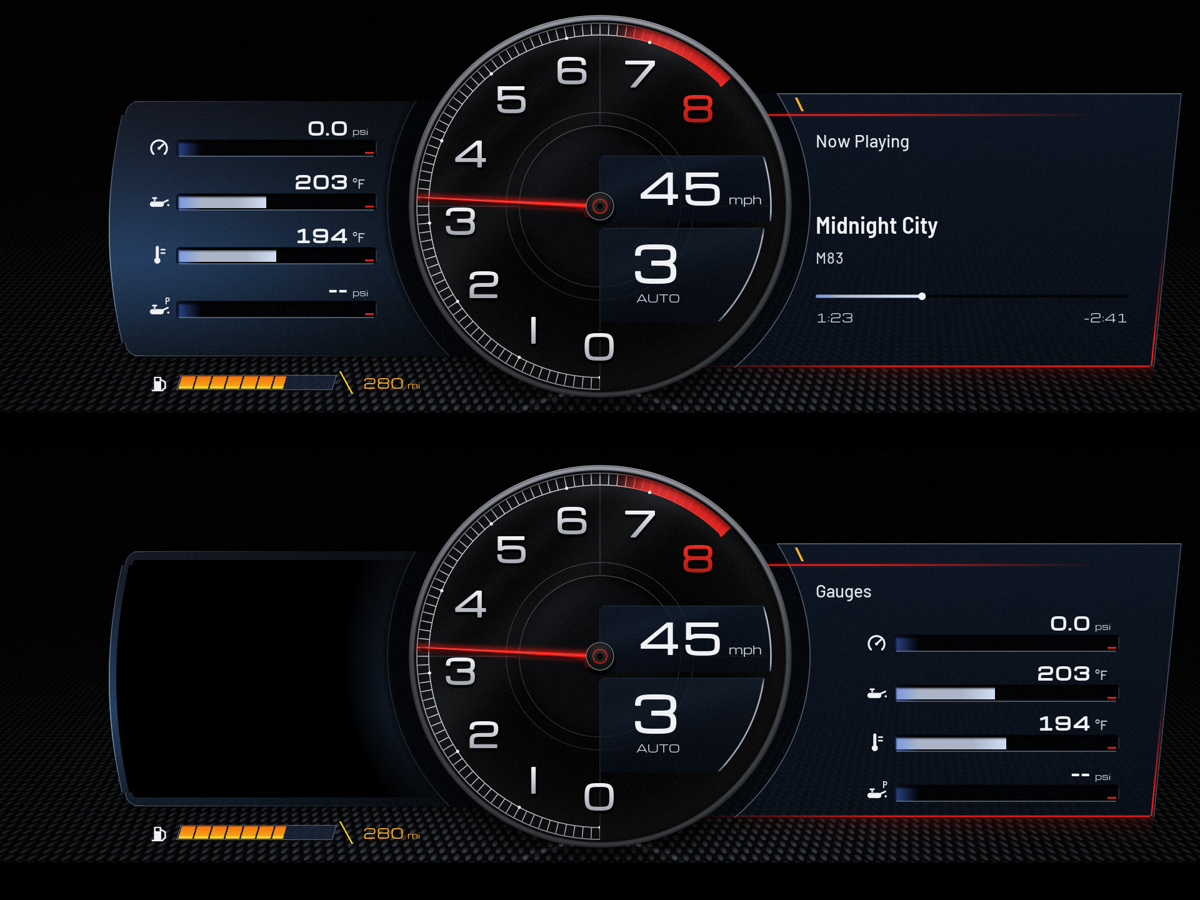
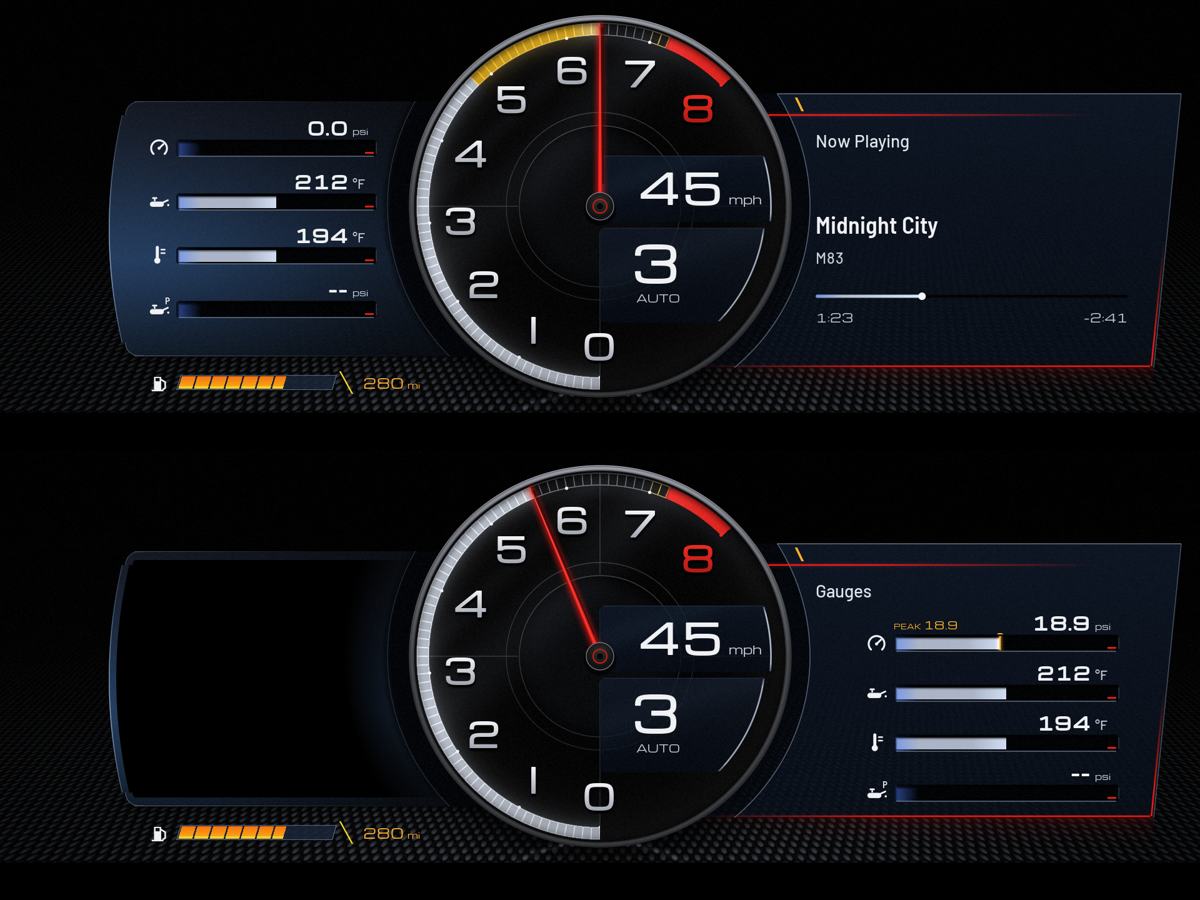
Vetro: drop the HV gauge from the shader to stay under the size known to hold on the car
Claude-Session: https://claude.ai/code/session_014K4Tyd9Jh77Ds9SVD6eFP6

diff --git a/shared/hud.js b/shared/hud.js
@@ -2855,7 +2855,6 @@ class HudApp {
             c.uniform(ref, 'u_tbox', (mapOn && w.mapTbox) || w.tbox || [68, 37, 69, 1]);
             c.uniform(ref, 'u_hole', this._hole(w));
             c.uniform(ref, 'u_fuel', [F[0] - w.x, F[1] - w.y, F[2], 0]);
-            c.uniform(ref, 'u_hv', w.hv && this.setting('vetroHv') === true ? [w.hv[0] - w.x, w.hv[1] - w.y, w.hv[2], 0] : [-1, 0, 1, 0]);
         } else if (w.type === 'gdash') {
             // Circuit (tools/gen_circuit.py): "tach" [cx, cy, r, start deg, sweep deg, thousands], "zones" [amber, red] rpm,
             // "left" / "right" [cx, cy, r] (the side dials), "gbox" [cx, cy, half w, half h] (the gear's box), "car"
@@ -3833,7 +3832,6 @@ class HudApp {
             const low = isNum(w.tyreLow) ? w.tyreLow : 33;
             const ts = ['FL', 'FR', 'RL', 'RR'].map((k) => { const v = this._tyre('p', k); return isNum(v) ? (Math.round(v * 14.5038) < low ? 2 : 1) : 0; });
             const fuel = this._raw('fuel'), fl = isNum(fuel) ? Math.round(Math.min(1, Math.max(0, fuel)) * 100) / 100 : 0;
-            const hv = this._raw('hvSoc'), hvF = isNum(hv) ? Math.round(Math.min(1, Math.max(0, hv / 100)) * 200) / 200 : 0;
             const pk = this._pullShown(), b0 = bars[0];
             const pkF = pk !== null && b0 && b0.signal === 'boost' ? q((pk - b0.min) / (b0.max - b0.min)) : -1;
             let sh = this._shiftNow(now);
@@ -3855,7 +3853,7 @@ class HudApp {
             }
             const playing = !!x.mediaOn && this._mediaOn(), mp = playing ? this._raw('mediaPct') : null;
             const mf = playing ? (isNum(mp) ? Math.round(Math.min(1, Math.max(0, mp / 100)) * 500) / 500 : 0) : -1;
-            const key = [rv].concat(bv, ts, [fl, hvF, pkF, mf], sh, rp, sw).join('|');
+            const key = [rv].concat(bv, ts, [fl, pkF, mf], sh, rp, sw).join('|');
             if (!force && key === x.last) return;
             x.last = key;
             x.c.uniform(x.ref, 'u_tach', [T[0] - w.x, T[1] - w.y, T[2], rv]);
@@ -3870,7 +3868,6 @@ class HudApp {
             const F = w.fuel;
             x.c.uniform(x.ref, 'u_fuel', [F[0] - w.x, F[1] - w.y, F[2], fl]);
             x.c.uniform(x.ref, 'u_peak', [pkF]);
-            if (w.hv && this.setting('vetroHv') === true) x.c.uniform(x.ref, 'u_hv', [w.hv[0] - w.x, w.hv[1] - w.y, w.hv[2], hvF]);
             if (x.mediaOn) { const M = w.media; x.c.uniform(x.ref, 'u_media', [M[0] - w.x, M[1] - w.y, mf < 0 ? 0 : M[2], Math.max(0, mf)]); }
         } else if (w.type === 'adash') {
             const Sc = w.scale, q = (v) => Math.round(Math.min(1, Math.max(0, v)) * 1000) / 1000;

diff --git a/shared/shaders.js b/shared/shaders.js
@@ -3851,7 +3851,6 @@ uniform vec4 u_sweep;      // "vetroRev" sweep (jsalicru): x 1 the ticks light a
 uniform vec3 u_rev;        // "vetroRev": x 1 the lit ladder (no needle), 0 the needle; y the revs' peak 0..1, z its fade 1..0
 uniform float u_peak;      // the peak boost on the first bar, 0..1 (< 0: none; setting "vetroPeak")
 uniform vec4 u_media;      // now playing on the right ("vetroRight" music): the progress track's x, y (its middle), width, the song's position 0..1; width 0: none
-uniform vec4 u_hv;         // the HV battery gauge (setting "vetroHv"): x, y, height, charge 0..1; x < 0: none
 
 float cov(float d) { return clamp(0.5 - d, 0.0, 1.0); }
 vec3 put(vec3 c, vec3 col, float a) { return mix(c, col, clamp(a, 0.0, 1.0)); }
@@ -3944,21 +3943,6 @@ void main() {
         c = put(c, vec3(1.0, 0.85, 0.2), cell * step(18.0 / 24.0, fy) * 0.8);
         float sx = p.x - (F.x + F.z + 12.0) - 0.55 * (p.y - F.y + 6.0);
         c = put(c, vec3(1.0, 0.86, 0.15), cov(abs(sx) - 1.3) * step(-6.0, p.y - F.y) * step(p.y - F.y, 30.0));
-    }
-
-    // --- the HV battery (a plug-in hybrid's charge): a tall recessed track left of the panel, filled from the foot in
-    //     cyan with a glow at the top (its battery icon and numbers are layers over it)
-    vec2 hp = p - u_hv.xy;
-    if (u_hv.x > 0.0 && hp.x > -2.0 && hp.x < 32.0 && hp.y > -2.0 && hp.y < u_hv.z + 12.0) {
-        float bd = max(abs(hp.x - 15.0) - 15.0, abs(hp.y - u_hv.z * 0.5) - u_hv.z * 0.5);
-        float pos = 1.0 - hp.y / u_hv.z;
-        vec3 hcl = mix(vec3(0.008, 0.012, 0.02), vec3(0.32, 0.86, 0.99) * (0.85 + 0.15 * sin(hp.x * 0.1047)),
-                       step(pos, u_hv.w) * step(4.0, hp.x) * step(hp.x, 27.0) * step(hp.y, u_hv.z - 3.0));
-        hcl += vec3(0.2, 0.7, 1.0) * exp(-pow((pos - u_hv.w) * u_hv.z / 5.0, 2.0)) * 0.3;
-        hcl *= 1.0 - 0.75 * clamp(1.0 - min(hp.y - 3.0, hp.x - 2.0) / 4.0, 0.0, 1.0);
-        c *= 1.0 - 0.4 * step(0.0, bd) * step(u_hv.z, hp.y);
-        c = put(c, hcl, cov(bd));
-        c = put(c, BLUE * 0.85, cov(abs(bd) - 0.6) * step(15.0, hp.x + max(hp.y - u_hv.z + 15.0, 0.0)) * 0.7);
     }
 
     // --- the right panel: navy glass framed by fine light lines, a darker ring band round the dial, red lines along the
